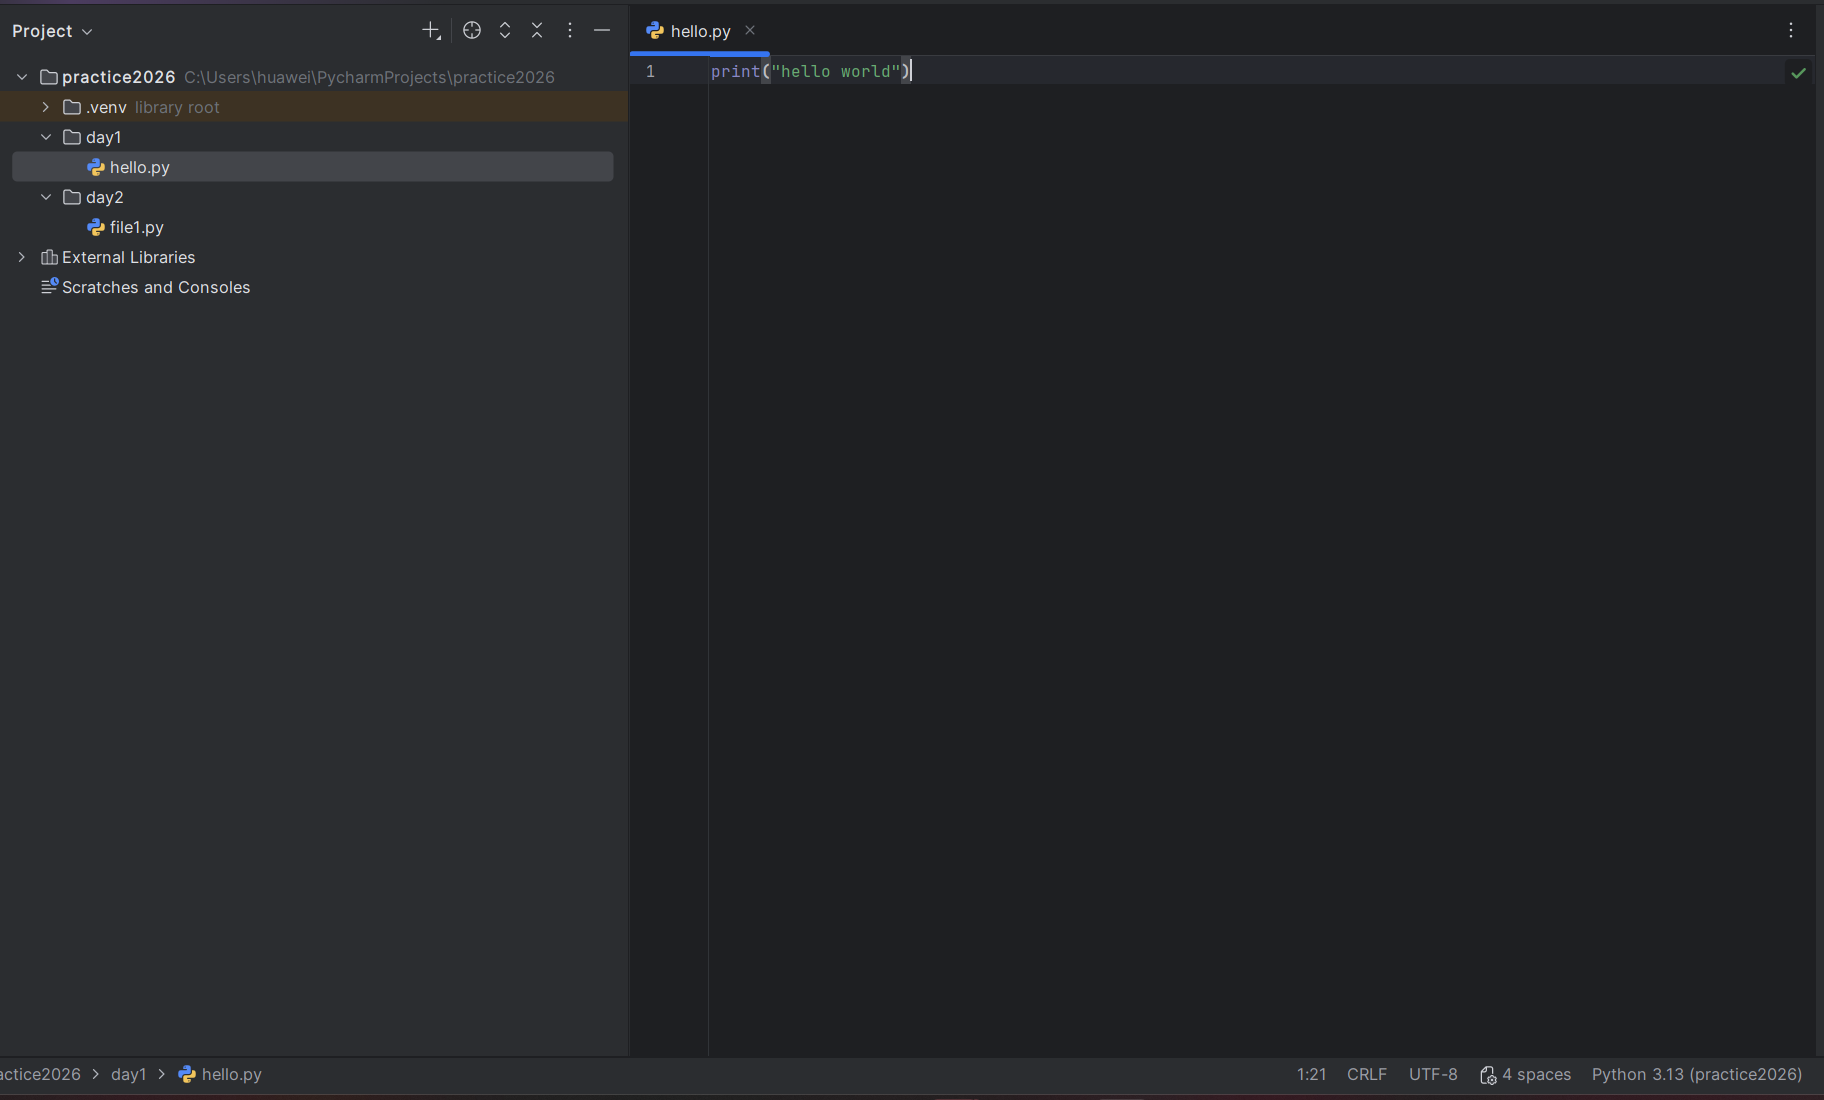
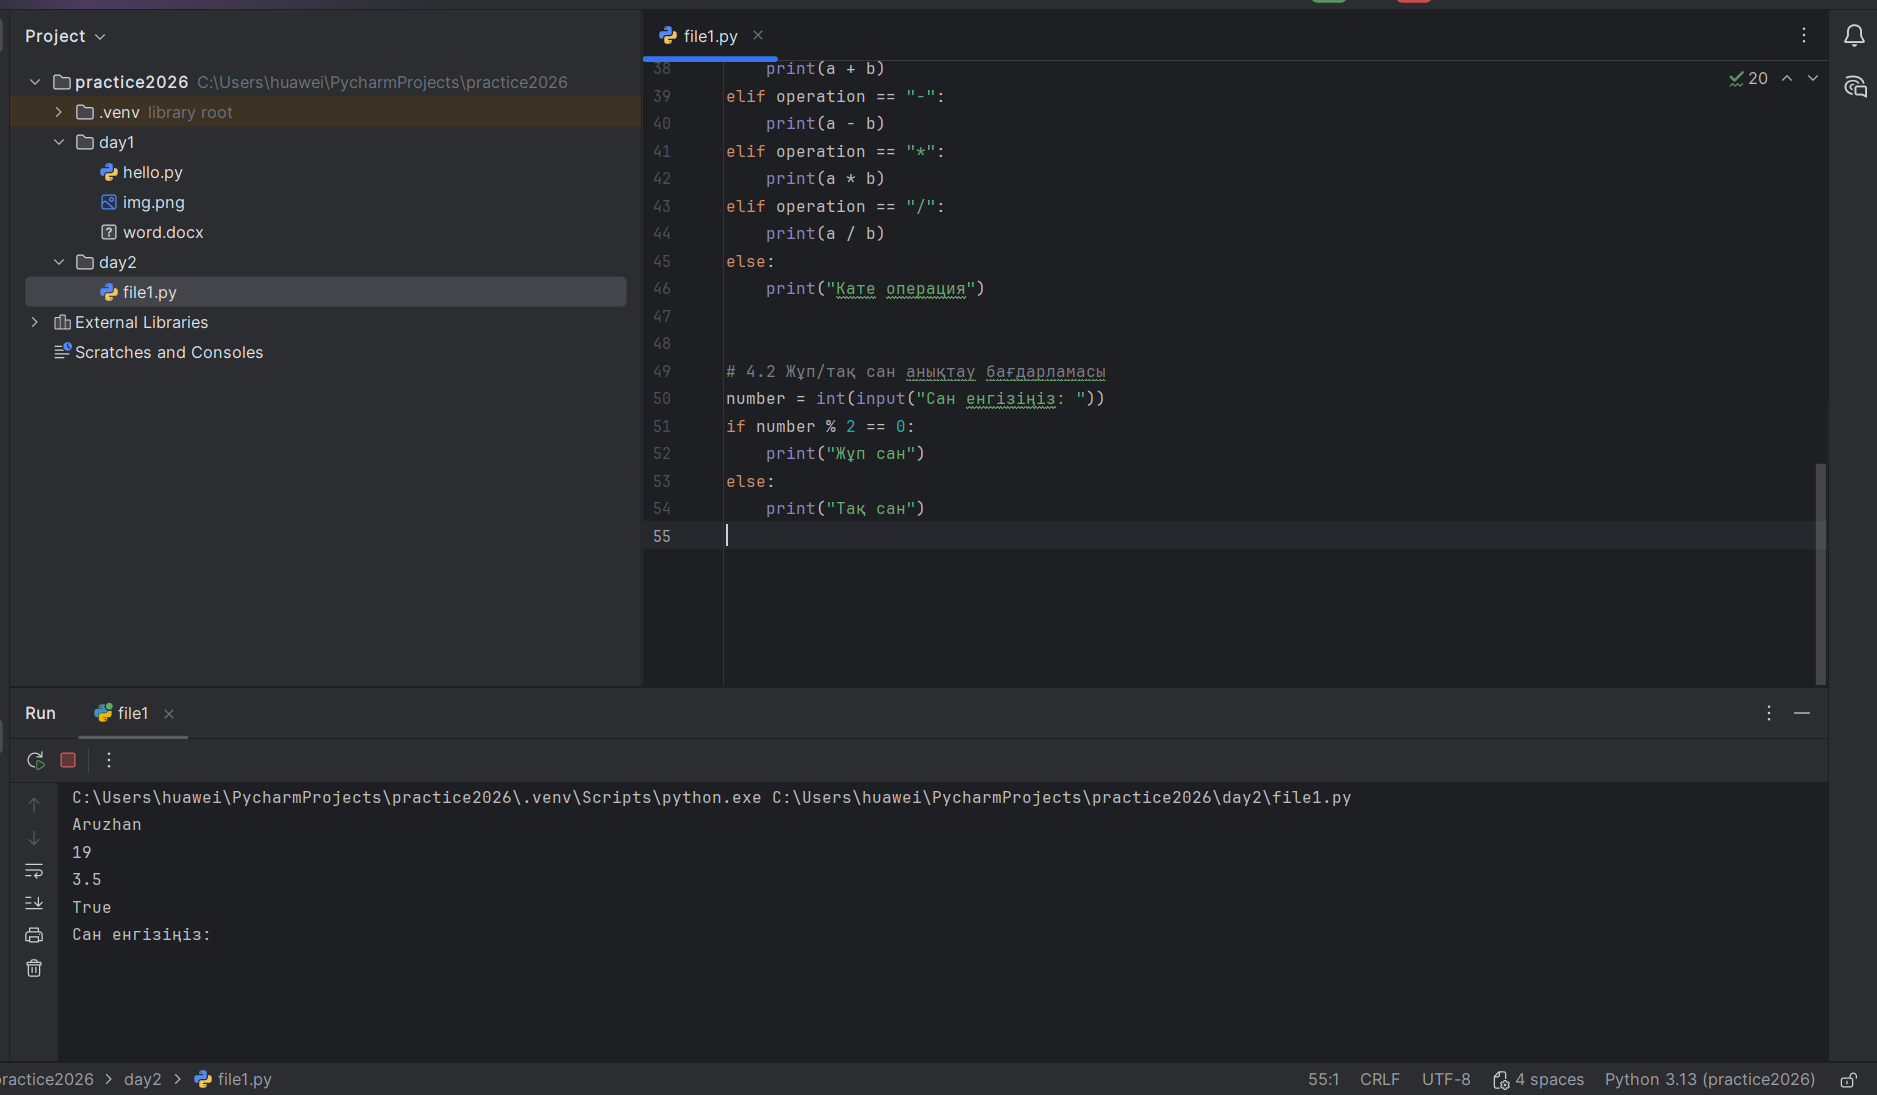
Add files via upload

diff --git a/file1.py b/file1.py
@@ -1,0 +1,54 @@
+# 1. Айнымалылар және мәліметтер типтері
+name = "Aruzhan"
+age = 19
+gpa = 3.5
+is_student = True
+
+print(name)
+print(age)
+print(gpa)
+print(is_student)
+
+
+# 2. Шартты операторлар (if, else)
+number = int(input("Сан енгізіңіз: "))
+if number % 2 == 0:
+    print("Жұп сан")
+else:
+    print("Тақ сан")
+
+
+# 3.1 for циклі
+for i in range(1, 6):
+    print(i)
+
+# 3.2 while циклі
+i = 1
+while i <= 5:
+    print(i)
+    i += 1
+
+
+# 4.1 Калькулятор бағдарламасы
+a = float(input("Бірінші сан: "))
+b = float(input("Екінші сан: "))
+operation = input("Операция (+, -, *, /): ")
+
+if operation == "+":
+    print(a + b)
+elif operation == "-":
+    print(a - b)
+elif operation == "*":
+    print(a * b)
+elif operation == "/":
+    print(a / b)
+else:
+    print("Кате операция")
+
+
+# 4.2 Жұп/тақ сан анықтау бағдарламасы
+number = int(input("Сан енгізіңіз: "))
+if number % 2 == 0:
+    print("Жұп сан")
+else:
+    print("Тақ сан")